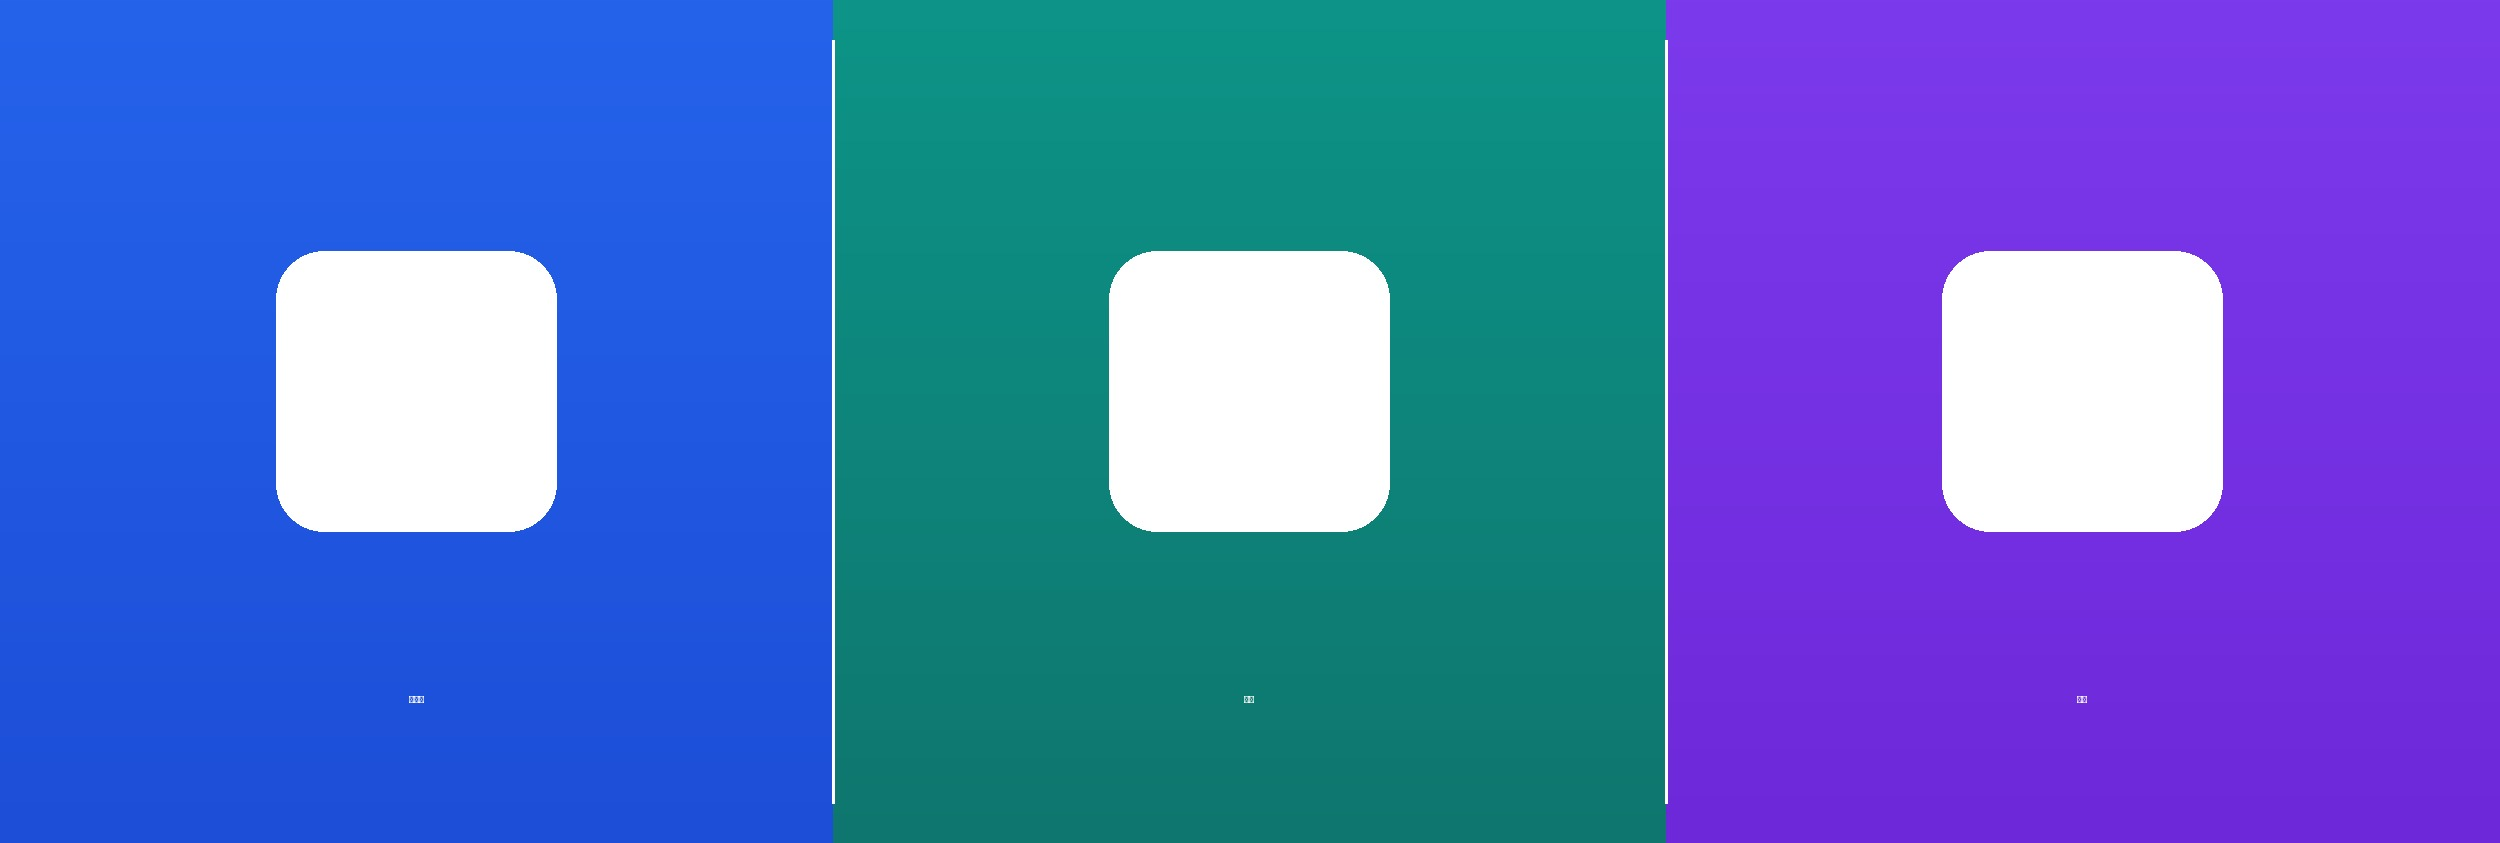
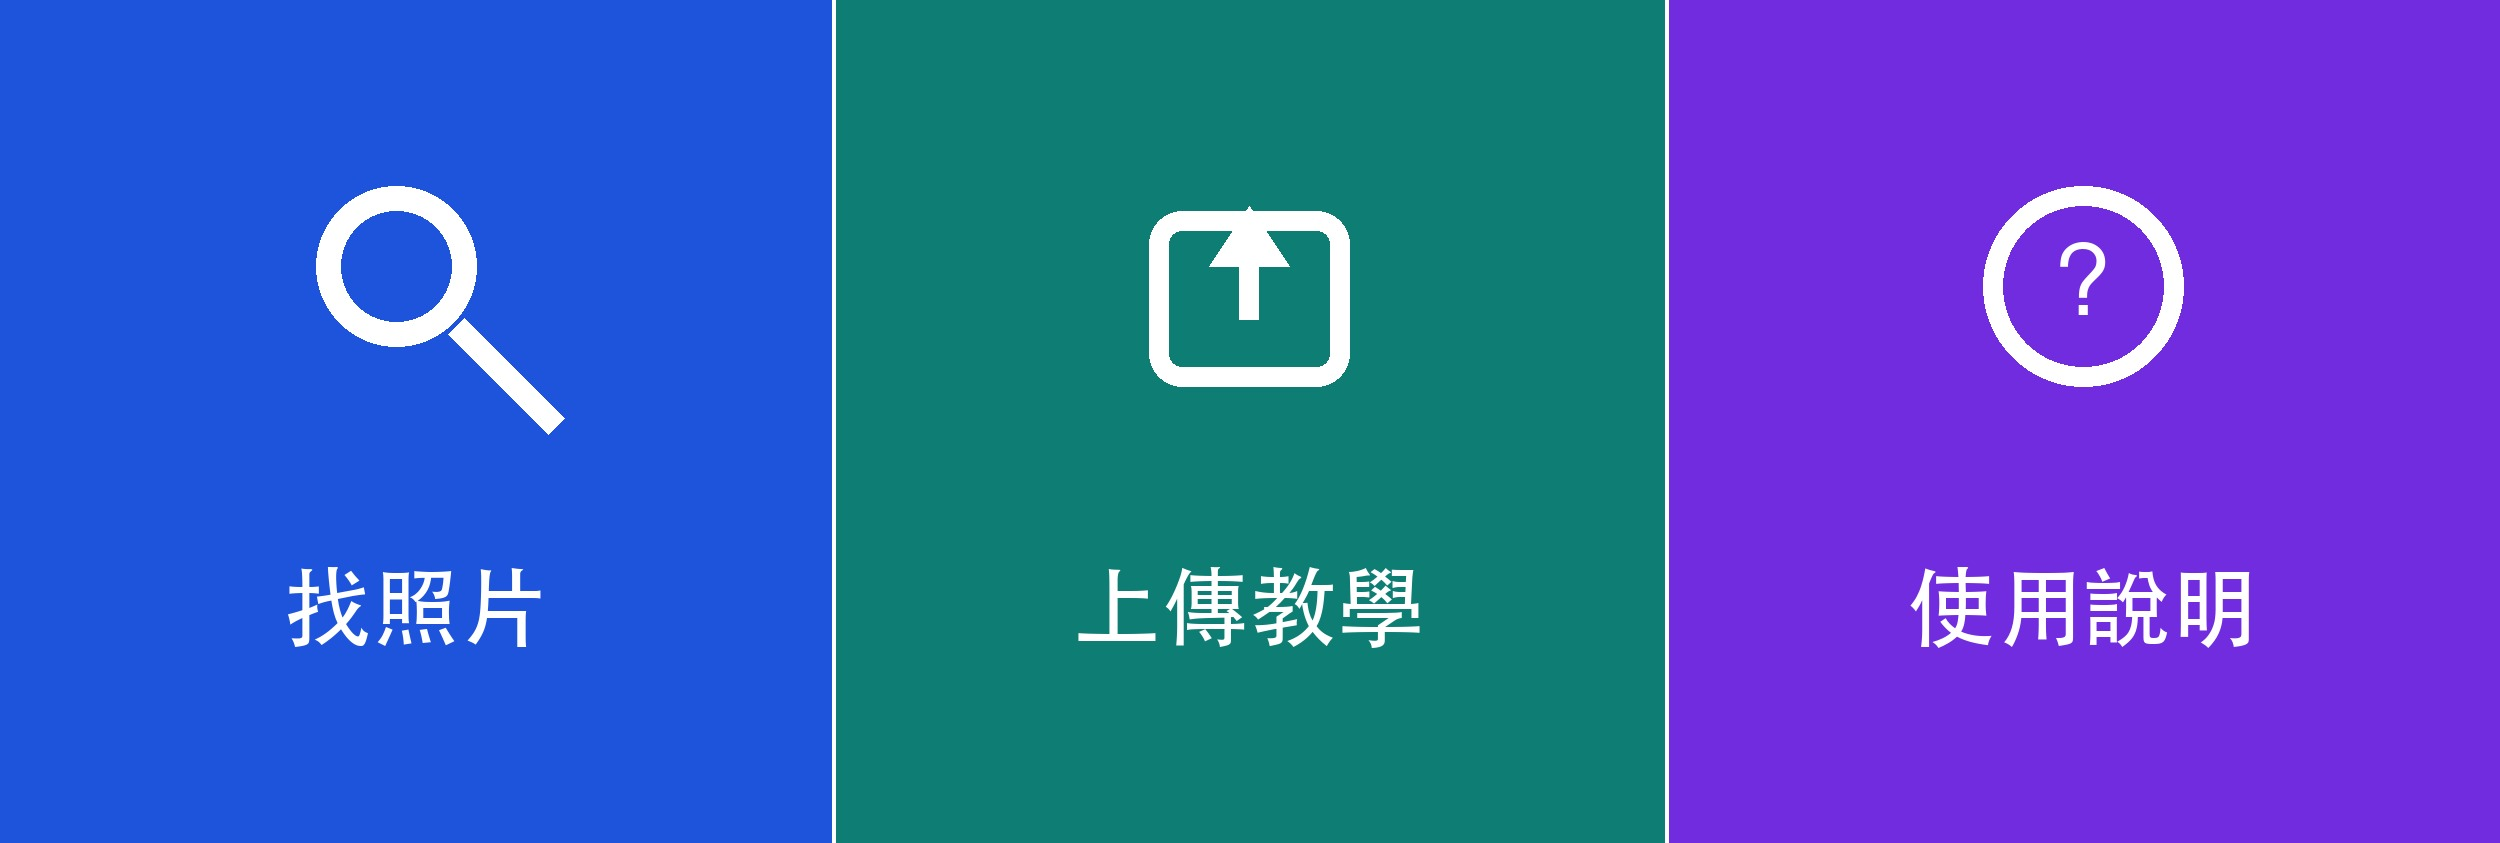
fix(line-bot): 將 Rich Menu 中文標籤烘焙進橫幅 JPEG
LINE compact Rich Menu 的可見標題來自上傳的橫幅圖，而非 API 的 `action.label`；先前橫幅未嵌入正確 CJK 字型，實機上三欄標題顯示為「-」，影響使用者辨識「找照片／上傳教學／使用說明」。本次以可重複執行的產圖腳本重製 2500×843 橫幅，並更新部署與維運文件。

新增 `generate-rich-menu.py`（Pillow），依三等分版面繪製圖示與繁中標籤，並依序嘗試 macOS／Linux 常見 CJK 字型；輸出覆寫 `deploy/line-bot/rich-menu.jpg`。`setup-rich-menu.sh` 與 Helm README 補充「先產圖、再上傳」流程；規劃文件同步標記 Rich Menu 修復完成、deploy 中與使用者驗收狀態。

部署後需執行 `setup-rich-menu.sh`（或依 `LINE_RICH_MENU_AUTO_SETUP` 由 Pod 啟動時 ensure）才會在 LINE 端生效；產圖環境需具備 CJK 字型，否則腳本會明確失敗。

- 新增 `scripts/line-bot/generate-rich-menu.py`：2500×843 三等分橫幅、繁中標籤（找照片／上傳教學／使用說明）與向量圖示，輸出 `deploy/line-bot/rich-menu.jpg`
- 更新 `deploy/line-bot/rich-menu.jpg`：以 CJK 字型烘焙可見標題，取代先前缺字顯示「-」的版本
- 調整 `scripts/line-bot/setup-rich-menu.sh`：註解說明 compact 標題在 JPEG 內，文案變更需先跑 generate 腳本
- 擴充 `deploy/helm/immich-line-bot/README.md`：Rich Menu 產圖／上傳指令、`LINE_RICH_MENU_AUTO_SETUP` 與 OA icon 上傳紀錄
- 更新 `docs/00_planning/BACKLOG.md`、`PROGRESS_TRACKING.md`、`HOW_TO_PROCEED.md`：Rich Menu 中文標籤修復、Release 狀態改為 deploy 中、PR #39 與 2026-06-29 使用者驗收
- 更新 `docs/00_planning/UX_PRODUCT_REVIEW.md`：記錄橫幅標籤根因（缺 CJK 字型）與 Layout 建議（可見標題來自 JPEG、`chatBarText` 為「選單」）

diff --git a/scripts/line-bot/generate-rich-menu.py b/scripts/line-bot/generate-rich-menu.py
@@ -1,0 +1,123 @@
+#!/usr/bin/env python3
+"""Generate LINE Rich Menu banner (2500×843) with Traditional Chinese labels.
+
+Visible titles on the compact rich menu come from this JPEG, not API fields.
+Regenerate after copy changes:
+
+  python3 scripts/line-bot/generate-rich-menu.py
+  bash scripts/line-bot/setup-rich-menu.sh   # push to LINE (needs access token)
+"""
+
+from __future__ import annotations
+
+import sys
+from pathlib import Path
+
+from PIL import Image, ImageDraw, ImageFont
+
+ROOT = Path(__file__).resolve().parents[2]
+OUT = ROOT / "deploy/line-bot/rich-menu.jpg"
+
+WIDTH = 2500
+HEIGHT = 843
+LABELS = ("找照片", "上傳教學", "使用說明")
+COLORS = ("#1E54DB", "#0E7D74", "#712CE0")
+
+FONT_CANDIDATES = (
+    "/System/Library/Fonts/STHeiti Medium.ttc",
+    "/System/Library/Fonts/STHeiti Light.ttc",
+    "/System/Library/Fonts/ヒラギノ角ゴシック W6.ttc",
+    "/System/Library/Fonts/Supplemental/Songti.ttc",
+    "/usr/share/fonts/opentype/noto/NotoSansCJK-Regular.ttc",
+    "/usr/share/fonts/truetype/noto/NotoSansCJK-Regular.ttc",
+)
+
+
+def load_font(size: int) -> ImageFont.FreeTypeFont | ImageFont.ImageFont:
+    for path in FONT_CANDIDATES:
+        candidate = Path(path)
+        if not candidate.exists():
+            continue
+        try:
+            return ImageFont.truetype(str(candidate), size=size, index=0)
+        except OSError:
+            continue
+    print(
+        "error: no CJK font found; install Noto Sans CJK or run on macOS",
+        file=sys.stderr,
+    )
+    sys.exit(1)
+
+
+def draw_search_icon(draw: ImageDraw.ImageDraw, cx: int, cy: int, size: int) -> None:
+    r = size // 2
+    bbox = (cx - r, cy - r, cx + r - size // 5, cy + r - size // 5)
+    draw.arc(bbox, start=0, end=360, fill="white", width=max(14, size // 8))
+    handle_len = size // 2
+    hx = bbox[2] - size // 10
+    hy = bbox[3] - size // 10
+    draw.line(
+        (hx, hy, hx + handle_len, hy + handle_len),
+        fill="white",
+        width=max(14, size // 8),
+    )
+
+
+def draw_upload_icon(draw: ImageDraw.ImageDraw, cx: int, cy: int, size: int) -> None:
+    half = size // 2
+    box = (cx - half, cy - half + size // 8, cx + half, cy + half)
+    draw.rounded_rectangle(box, radius=size // 6, outline="white", width=max(12, size // 10))
+    shaft_top = cy - size // 5
+    shaft_bottom = cy + size // 6
+    draw.line((cx, shaft_bottom, cx, shaft_top), fill="white", width=max(12, size // 10))
+    head = size // 5
+    draw.polygon(
+        [
+            (cx, shaft_top - head),
+            (cx - head, shaft_top + head // 2),
+            (cx + head, shaft_top + head // 2),
+        ],
+        fill="white",
+    )
+
+
+def draw_help_icon(draw: ImageDraw.ImageDraw, cx: int, cy: int, size: int) -> None:
+    r = size // 2
+    draw.ellipse(
+        (cx - r, cy - r, cx + r, cy + r),
+        outline="white",
+        width=max(12, size // 10),
+    )
+    font = load_font(max(48, size // 2))
+    draw.text((cx, cy), "?", fill="white", font=font, anchor="mm")
+
+
+def main() -> None:
+    img = Image.new("RGB", (WIDTH, HEIGHT), "white")
+    draw = ImageDraw.Draw(img)
+    third = WIDTH // 3
+    label_font = load_font(88)
+    icon_size = 200
+    icon_y = int(HEIGHT * 0.34)
+    label_y = int(HEIGHT * 0.72)
+
+    icon_drawers = (draw_search_icon, draw_upload_icon, draw_help_icon)
+
+    for index, (label, color) in enumerate(zip(LABELS, COLORS, strict=True)):
+        x0 = index * third
+        x1 = x0 + third if index < 2 else WIDTH
+        draw.rectangle((x0, 0, x1, HEIGHT), fill=color)
+        if index > 0:
+            draw.line((x0, 0, x0, HEIGHT), fill="#FFFFFF", width=4)
+
+        cx = x0 + (x1 - x0) // 2
+        icon_drawers[index](draw, cx, icon_y, icon_size)
+        draw.text((cx, label_y), label, fill="white", font=label_font, anchor="mm")
+
+    OUT.parent.mkdir(parents=True, exist_ok=True)
+    img.save(OUT, format="JPEG", quality=92, optimize=True)
+    print(f"wrote {OUT} ({WIDTH}×{HEIGHT})")
+
+
+if __name__ == "__main__":
+    main()

diff --git a/docs/00_planning/HOW_TO_PROCEED.md b/docs/00_planning/HOW_TO_PROCEED.md
@@ -1,6 +1,6 @@
 # 如何進行 — Immich Apps 執行指南
 
-**日期**: 2026-06-28  
+**日期**: 2026-06-30  
 **Repo**: <https://github.com/dejavux/immich-apps>  
 **進度 SSOT**: [PROGRESS_TRACKING.md](./PROGRESS_TRACKING.md)  
 **路線圖**: [BACKLOG.md §下一階段路線圖](./BACKLOG.md#下一階段路線圖2026-06-28)  
@@ -13,21 +13,30 @@
 | 項目 | 狀態 |
 | ------ | ------ |
 | **Immich Enhancement** | ✅ **結案** |
-| LINE Bot git | **`d272c21`**（Denmark + PR #32–#34） |
-| LINE Bot cluster | **`f75de69`** → 🔴 **`make release` 待執行** |
+| LINE Bot git | 見 `git rev-parse --short HEAD` |
+| LINE Bot cluster | 見 `make verify-deploy` |
+| **使用者驗收** | ✅ **2026-06-29** — OA icon 上傳 · 搜尋重測（小蕊哭／2年前／Disney） |
 | **Immich Ops** | 5a **PASS** · 5b **~95%** · Phase 4 ✅ **COMPLETE** |
 
 ```bash
-make verify-deploy   # 預期：NEED RELEASE 直至 rollout d272c21
+make verify-deploy   # 比對 git SHA vs cluster image tag
 ```
 
 ---
 
 ## 🔴 本週優先（P0）
 
-1. **`make release`** → `make verify-deploy` PASS → LINE 實機驗證「找 steffi 在丹麥的照片」
+1. **`make release`** → `make verify-deploy` PASS → LINE Rich Menu 標籤實機確認（找照片／上傳教學／使用說明）
 2. **Ops W2** — 追蹤 rsync：`ssh delta.3q.fi 'du -sh .../mac-studio/*'`（2026-06-28：**63G/146G** local · **17G/18G** icloud）
 3. **Phase 5b** — 確認 Telegram smoke 3 條告警
+
+### Rich Menu 更新（維運）
+
+```bash
+python3 scripts/line-bot/generate-rich-menu.py
+eval "$(./scripts/dev/load-env-from-op.sh)"
+bash scripts/line-bot/setup-rich-menu.sh
+```
 
 ---
 

diff --git a/deploy/helm/immich-line-bot/README.md b/deploy/helm/immich-line-bot/README.md
@@ -38,10 +38,18 @@ https://immich-bot.3q.fi/webhook/line
 
 | 用途 | 路徑 | 規格 |
 | ------ | ------ | ------ |
-| OA 大頭貼（選用） | `deploy/line-bot/line-bot-icon-1040x1040.png` | 1040×1040 |
+| OA 大頭貼 | `deploy/line-bot/line-bot-icon-1040x1040.png` | 1040×1040 · **已上傳** LINE Developers Console（2026-06-29） |
 | Rich Menu 橫幅 | `deploy/line-bot/rich-menu.jpg` | 2500×843（compact）；三等分點擊區見 `src/line-bot/services/rich-menu.ts` |
 
-套用 Rich Menu：`bash scripts/line-bot/setup-rich-menu.sh`
+**Rich Menu 標題**（找照片／上傳教學／使用說明）必須畫在 JPEG 內；`action.label` 僅供無障礙／部分客戶端。
+
+```bash
+python3 scripts/line-bot/generate-rich-menu.py   # 重製橫幅（需 CJK 字型）
+eval "$(./scripts/dev/load-env-from-op.sh)"
+bash scripts/line-bot/setup-rich-menu.sh         # 建立選單 + 上傳圖片 + 設為預設
+```
+
+部署時若 `LINE_RICH_MENU_AUTO_SETUP=true`，Pod 啟動也會呼叫 `ensureDefaultRichMenu`（見 `src/line-bot/index.ts`）。
 
 ### 原檔測試（file 訊息）
 

diff --git a/docs/00_planning/PROGRESS_TRACKING.md b/docs/00_planning/PROGRESS_TRACKING.md
@@ -5,9 +5,9 @@
 > 🏗️ **Repo**: <https://github.com/dejavux/immich-apps>（整合 server + LINE Bot + photo sync）  
 > 📋 **執行指南**: [HOW_TO_PROCEED.md](./HOW_TO_PROCEED.md)
 
-**最後更新**: 2026-06-28（bottom-up 盤點 · LINE PR #32–#34 · Denmark `d272c21` 待 release）  
+**最後更新**: 2026-06-30（Rich Menu 標籤修復 · 使用者驗收 2026-06-29）  
 **專案狀態**: ✅ **增強專案結案** · Phase 5a **PASS** · Phase 5b **~95%** · Phase 4 ✅ **COMPLETE**  
-**Ops 更新**: 2026-06-28 — Mac 冷備份 delta HDD **63G/146G** local · **17G/18G** icloud · cluster LINE Bot **`f75de69`**（git **`d272c21`** NEED RELEASE）  
+**Ops 更新**: 2026-06-29 — Mac 冷備份 delta HDD **63G/146G** local · **17G/18G** icloud · cluster LINE Bot 見 `make verify-deploy` · OA icon + 搜尋重測（小蕊哭／2年前／Disney）✅  
 **UX 檢視**: [UX_PRODUCT_REVIEW.md](./UX_PRODUCT_REVIEW.md)  
 **負責人**: Infrastructure Team + App Dev Team
 
@@ -18,9 +18,9 @@
 | 指標 | 數值 | 說明 |
 | ------ | ------ | ------ |
 | 🔴 高優先級任務 | 0 | — |
-| 🟡 中優先級任務 | 2 | Ops W2 rsync 收尾 · LINE Bot release `d272c21` |
+| 🟡 中優先級任務 | 2 | Ops W2 rsync 收尾 · Rich Menu deploy 驗收 |
 | 🟢 低優先級任務 | 5 | Similar images · album reconcile · LINE V1.1 · Photo Edit |
-| ✅ 本週完成 | 4 | PR #32–#34 搜尋 UX · Denmark country filter · 108 tests |
+| ✅ 本週完成 | 5 | PR #39 情緒／N年前／Disney · OA icon · 搜尋重測 · Rich Menu 標籤 |
 | 📈 整體進度 | **99%** | 增強專案主體 **結案** · L3 維運 backlog 獨立追蹤 |
 
 ---
@@ -799,7 +799,7 @@ launchctl print gui/$(id -u)/com.immich.photo-sync.watch
 | Phase 5a pg 2/2 + NFS 157.8G | ✅ PASS |
 | Phase 4 postgres → lama NVMe | ✅ 2026-06-24 |
 | Phase 5b Grafana / immich-ops | 🟡 ~95%（smoke 待確認） |
-| LINE Bot 搜尋 UX PR #32–#34 + Denmark `d272c21` | 🟡 **待 release**（cluster `f75de69`） |
+| LINE Bot 搜尋 UX PR #32–#39 + Rich Menu 標籤 | 🟡 **deploy 中**（`make verify-deploy`） |
 | Ops W2 Mac `.photoslibrary` → delta **HDD** | 🟡 **63G/146G** local · **17G/18G** icloud |
 | `make verify-deploy` | ✅ PR #31 |
 
@@ -863,7 +863,7 @@ launchctl print gui/$(id -u)/com.immich.photo-sync.watch
 
 **立即** 🔴:
 
-1. **`make release`** — git `d272c21` 領先 cluster `f75de69`（Denmark country filter + PR #32–#34 已 merge 待 rollout）
+1. **`make release`** — Rich Menu 中文標籤 + PR #39 搜尋修復 → `make verify-deploy` PASS
 2. **Ops W2** — local-archive rsync **63G/146G** · icloud **17G/18G**（delta HDD）
 
 **進行中** 🚧:

diff --git a/docs/00_planning/UX_PRODUCT_REVIEW.md b/docs/00_planning/UX_PRODUCT_REVIEW.md
@@ -1,6 +1,6 @@
 # UX / Product Review — Immich Apps
 
-**日期**: 2026-06-28（對齊 PR #32–#34 · `d272c21`）  
+**日期**: 2026-06-30（Rich Menu 標籤修復 · 使用者驗收 2026-06-29）  
 **範圍**: 使用者面向流程（LINE Bot · Immich Web · Mac Photos 維運）與下一階段產品優化  
 **SSOT 進度**: [PROGRESS_TRACKING.md](./PROGRESS_TRACKING.md) · **Sprint**: [HOW_TO_PROCEED.md](./HOW_TO_PROCEED.md)
 
@@ -12,7 +12,7 @@
 | ------ | ------ | ------ | ------ |
 | **後端 / 資料正確性** | 強 | ★★★★☆ | Photo sync、reconcile、tier policy 腳本鏈完整；Immich v2.7.5 穩定 |
 | **LINE 上傳** | 可用 | ★★★☆☆ | E2E 通過；但「照片 vs 原檔」認知負擔高 |
-| **LINE 搜尋** | 成熟 | ★★★★☆ | 確認 flow · help QR · 地點 metadata（含丹麥）· 口語歐洲；carousel 仍顯示檔名 |
+| **LINE 搜尋** | 成熟 | ★★★★☆ | 情緒／N年前／Disney（PR #39）· 使用者重測 ✅ 2026-06-29 |
 | **Immich Web** | 依 upstream | ★★★☆☆ | 相簿/時間軸可用；P0 驗收 checklist 未跑 |
 | **維運者 UX** | 腳本為主 | ★★★☆☆ | `tier-policy-status.sh` 已有；tier 仍多步 CLI |
 
@@ -67,13 +67,14 @@ graph LR
 | 人物消歧 | Quick Reply 按鈕 | 無頭像 | **P2** Flex 人名卡片（附縮圖若 API 允許） |
 | 結果呈現 | Flex carousel + deep link | bubble 顯示 UUID 檔名 | **P1** 地點/人物/場景標籤 |
 | 空結果 | Quick Reply 放寬條件 | 尚可 | 維持 |
-| 幫助 | Rich Menu + 範例 QR | 已改善 | 維持 |
+| 幫助 | Rich Menu + 範例 QR | 橫幅標籤曾顯示「-」（缺 CJK 字型）→ **已修** `generate-rich-menu.py` | 部署後實機確認三欄標題 |
 
 ### LINE 版面（Layout）建議
 
 1. **訊息層級**：先一行摘要（幾張、條件）→ 再 carousel；避免文字與圖同時過長。
-2. **Carousel bubble**：目前顯示日期 + UUID 前綴檔名 → 改為 **地點 / 人物 / 場景標籤**（若 API 有）。
-3. **品牌一致性**：altText、header 用同一套句式（「找到 N 張：小蕊 · 海邊 · 2024」）。
+2. **Carousel bubble**：副標已支援地點／人物（`withExif`/`withPeople`）；持續避免 UUID 檔名當主標。
+3. **Rich Menu**：compact 模式可見標題來自 **JPEG 圖**（非 API `label`）；`chatBarText` 為「選單」。
+4. **品牌一致性**：altText、header 用同一套句式（「找到 N 張：小蕊 · 海邊 · 2024」）。
 
 ---
 

diff --git a/docs/00_planning/BACKLOG.md b/docs/00_planning/BACKLOG.md
@@ -2,7 +2,7 @@
 
 **SSOT 進度**: [PROGRESS_TRACKING.md](./PROGRESS_TRACKING.md)  
 **執行指南**: [HOW_TO_PROCEED.md](./HOW_TO_PROCEED.md)  
-**最後更新**: 2026-06-29（P1 #4/#5/#7 實作 · rsync du 複查 63G+17G）  
+**最後更新**: 2026-06-30（Rich Menu 中文標籤修復 · 使用者驗收 2026-06-29）  
 **UX 檢視**: [UX_PRODUCT_REVIEW.md](./UX_PRODUCT_REVIEW.md)
 
 ---
@@ -25,7 +25,7 @@
 | 軌道 | 任務 | 狀態 | 備註 |
 | ------ | ------ | ------ | ------ |
 | — | **Immich Enhancement** | ✅ 結案 | Phase 0–3.6 + 3.5（purge 豁免） |
-| **Release** | LINE Bot `d272c21` | 🔴 **待 deploy** | cluster `f75de69` · `make verify-deploy` NEED RELEASE |
+| **Release** | LINE Bot rich menu fix | 🟡 **deploy 中** | 見 `make verify-deploy` · 搜尋／OA 驗收 ✅ 2026-06-29 |
 | **Ops W1** | Phase 5a NFS + pg_dump | ✅ **PASS** | pg 2/2 · NFS Job ✅ · B2 已刪 |
 | **Ops** | Phase 1 probes/Redis | ✅ **已 deploy** | probes + NetworkPolicy + Redis secret（2026-06-23） |
 | **Ops W3** | Phase 5b monitoring | 🟡 **~95%** | immich-ops 有資料 · Telegram smoke 待確認 |
@@ -199,7 +199,8 @@ P2  可選     album reconcile · Similar images · thumbs NVMe
 - [x] 口語「小光和老婆在歐洲」· 關係詞過濾 · 歐洲 sceneQuery（PR #34）
 - [x] Denmark / 丹麥 country metadata filter + `normalizeCountryForImmich`（`d272c21`）
 - [x] 搜尋 parser P0：人物+情緒（哭）· `N年前` 相對日期 · 中文數字 · Disney 場景 + EXIF 過濾（2026-06-29）
-- [x] 情緒篩選 MVP（哭/笑/開心）· 多輪「只要哭的」· Rich Menu 2500×843 重製 · OA icon（2026-06-29）
+- [x] 情緒篩選 MVP（哭/笑/開心）· 多輪「只要哭的」· 搜尋重測（小蕊哭／2年前／Disney）· OA icon 上傳（2026-06-29 · PR #39）
+- [x] Rich Menu 橫幅中文標籤（找照片／上傳教學／使用說明）· `generate-rich-menu.py`（2026-06-30）
 
 ---
 
@@ -290,6 +291,7 @@ P2  可選     album reconcile · Similar images · thumbs NVMe
 
 | 項目 | 完成日 |
 | ------ | -------- |
+| Rich Menu 中文標籤修復（CJK 字型 · generate-rich-menu.py） | 2026-06-30 |
 | 聖彼得堡 CITY_LOOKUP + carousel 不誤標地點 + Rich Menu 可見橫幅 | 2026-06-29 |
 | Carousel 副標 withExif + Rich Menu 圖片修復（117 tests） | 2026-06-29 |
 | P1 國名 CLDR 自動化 + carousel 中繼資料 + 處理中 N/M（115 tests） | 2026-06-29 |